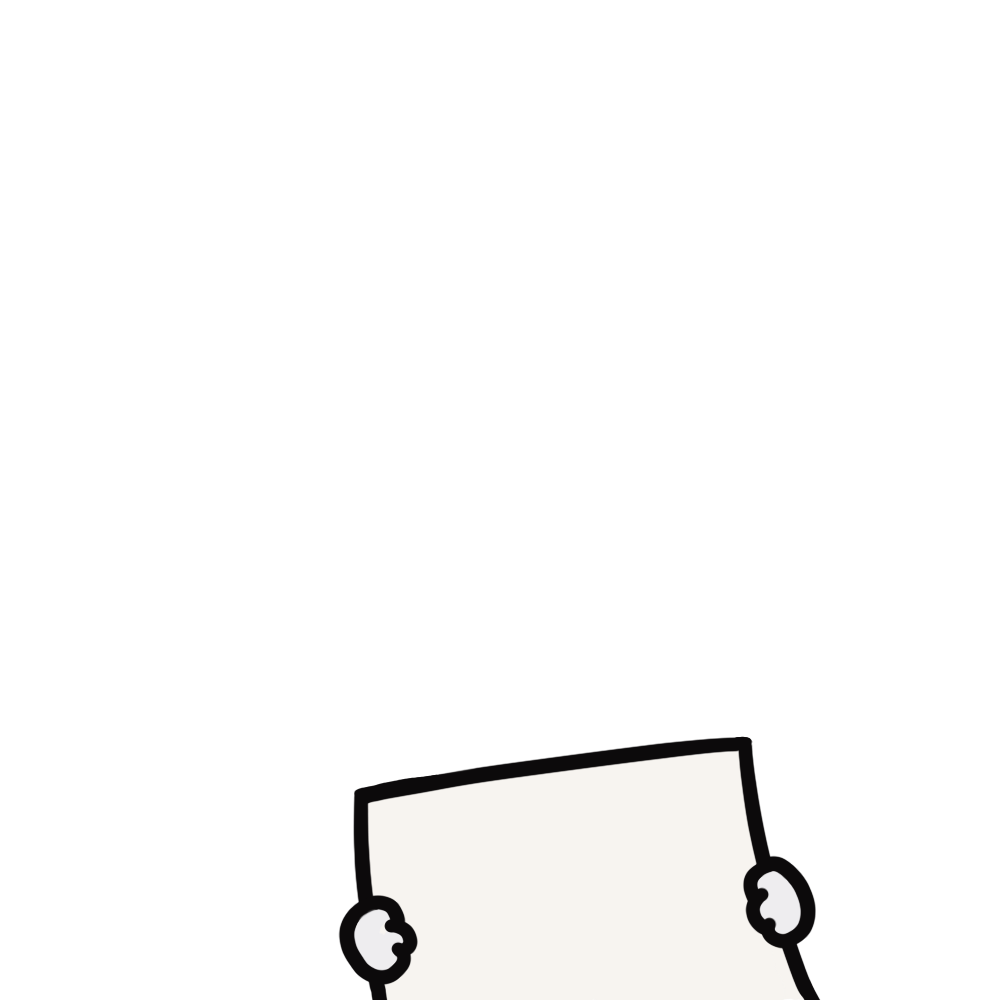
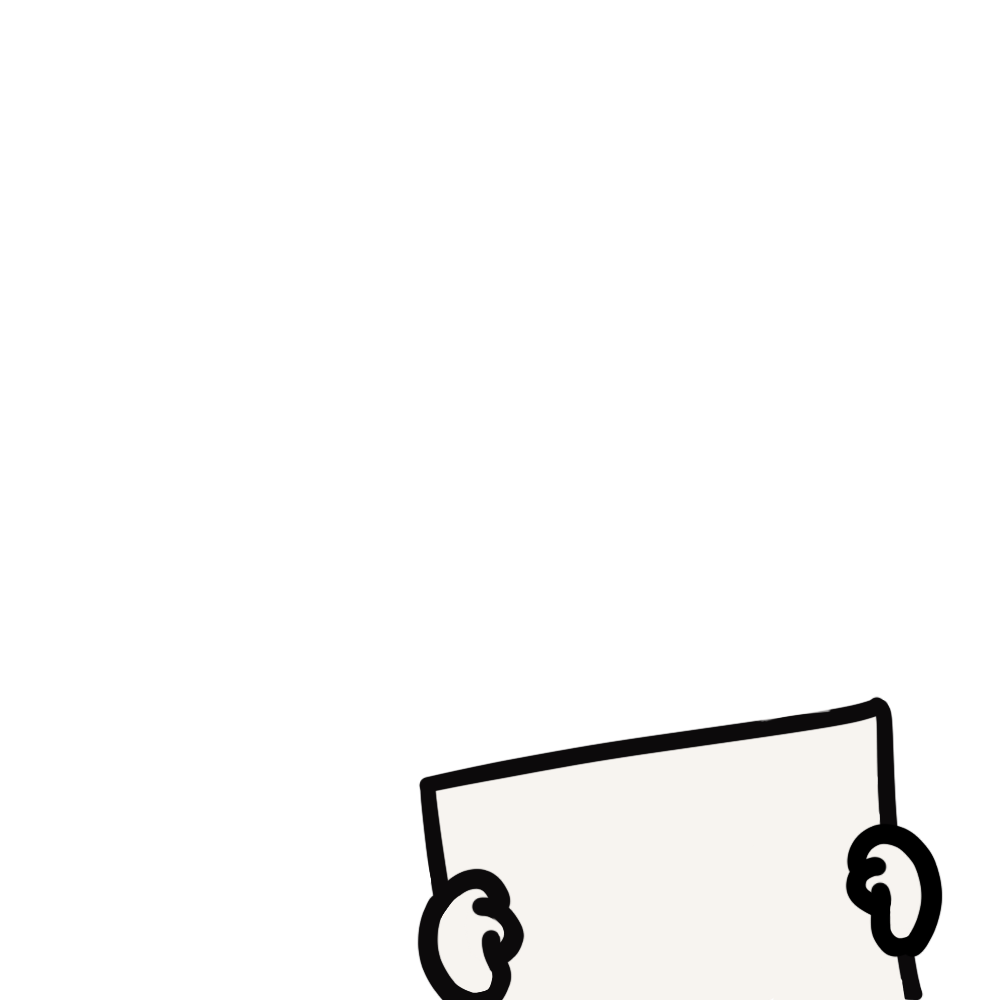
fix: paper rename

Changed region(s): [[0.465, 0.682, 0.961, 1.0], [0.341, 0.775, 0.527, 1.0]]

diff --git a/pages/protest/[id].tsx b/pages/protest/[id].tsx
@@ -5,7 +5,7 @@ import { FC, useEffect, useState } from "react";
 import Loading from "../../components/Loading";
 
 function getImage(id: string) {
-  return `https://dml9bs35yz8y5.cloudfront.net/${id}.png?t=${Date.now()}`;
+  return `https://dml9bs35yz8y5.cloudfront.net/${id}.png`;
 }
 
 const Canvas: FC<{ image: HTMLImageElement | null, paper: HTMLImageElement | null }> = ({ image, paper }) => {
@@ -49,7 +49,7 @@ const WallpaperPage: FC = () => {
 
   useEffect(() => {
     const s = new Image();
-    s.src = "/paper_2.png";
+    s.src = "/paper.png";
 
     s.crossOrigin = "Anonymous";
     s.onload = function () {
@@ -68,7 +68,7 @@ const WallpaperPage: FC = () => {
     };
     img.crossOrigin = "Anonymous";
     img.src = imageURL;
-  }, [id]);
+  }, [imageURL]);
 
   if (!id || !imageURL|| !image) {
     return <Loading />;
